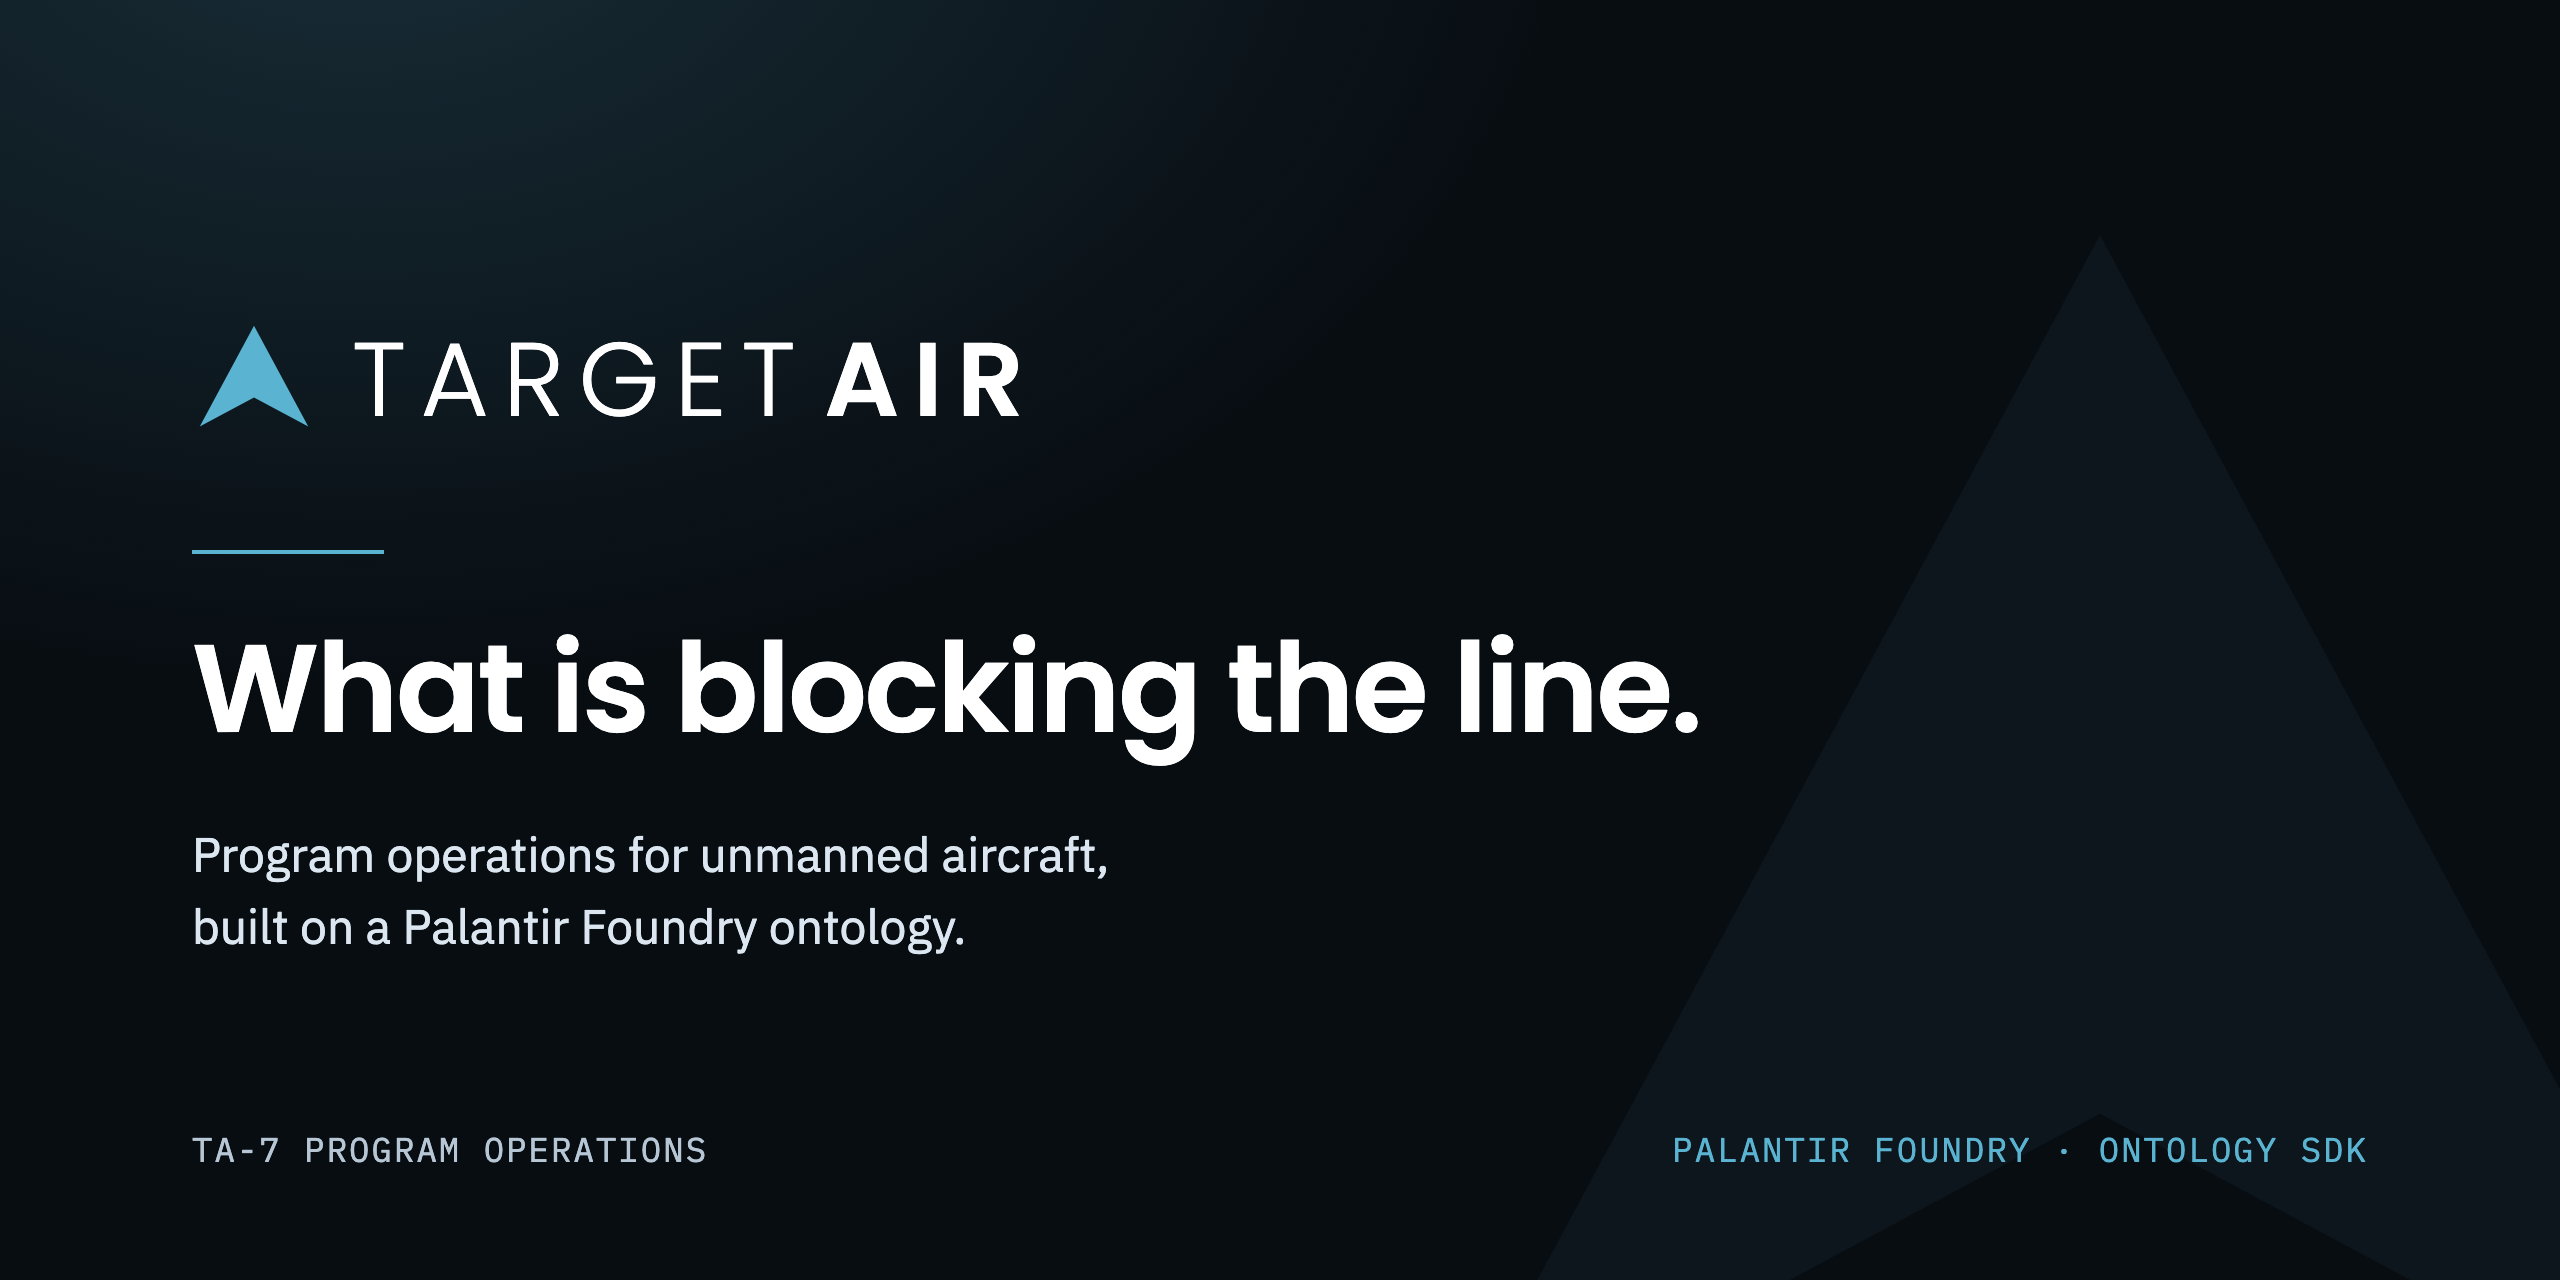
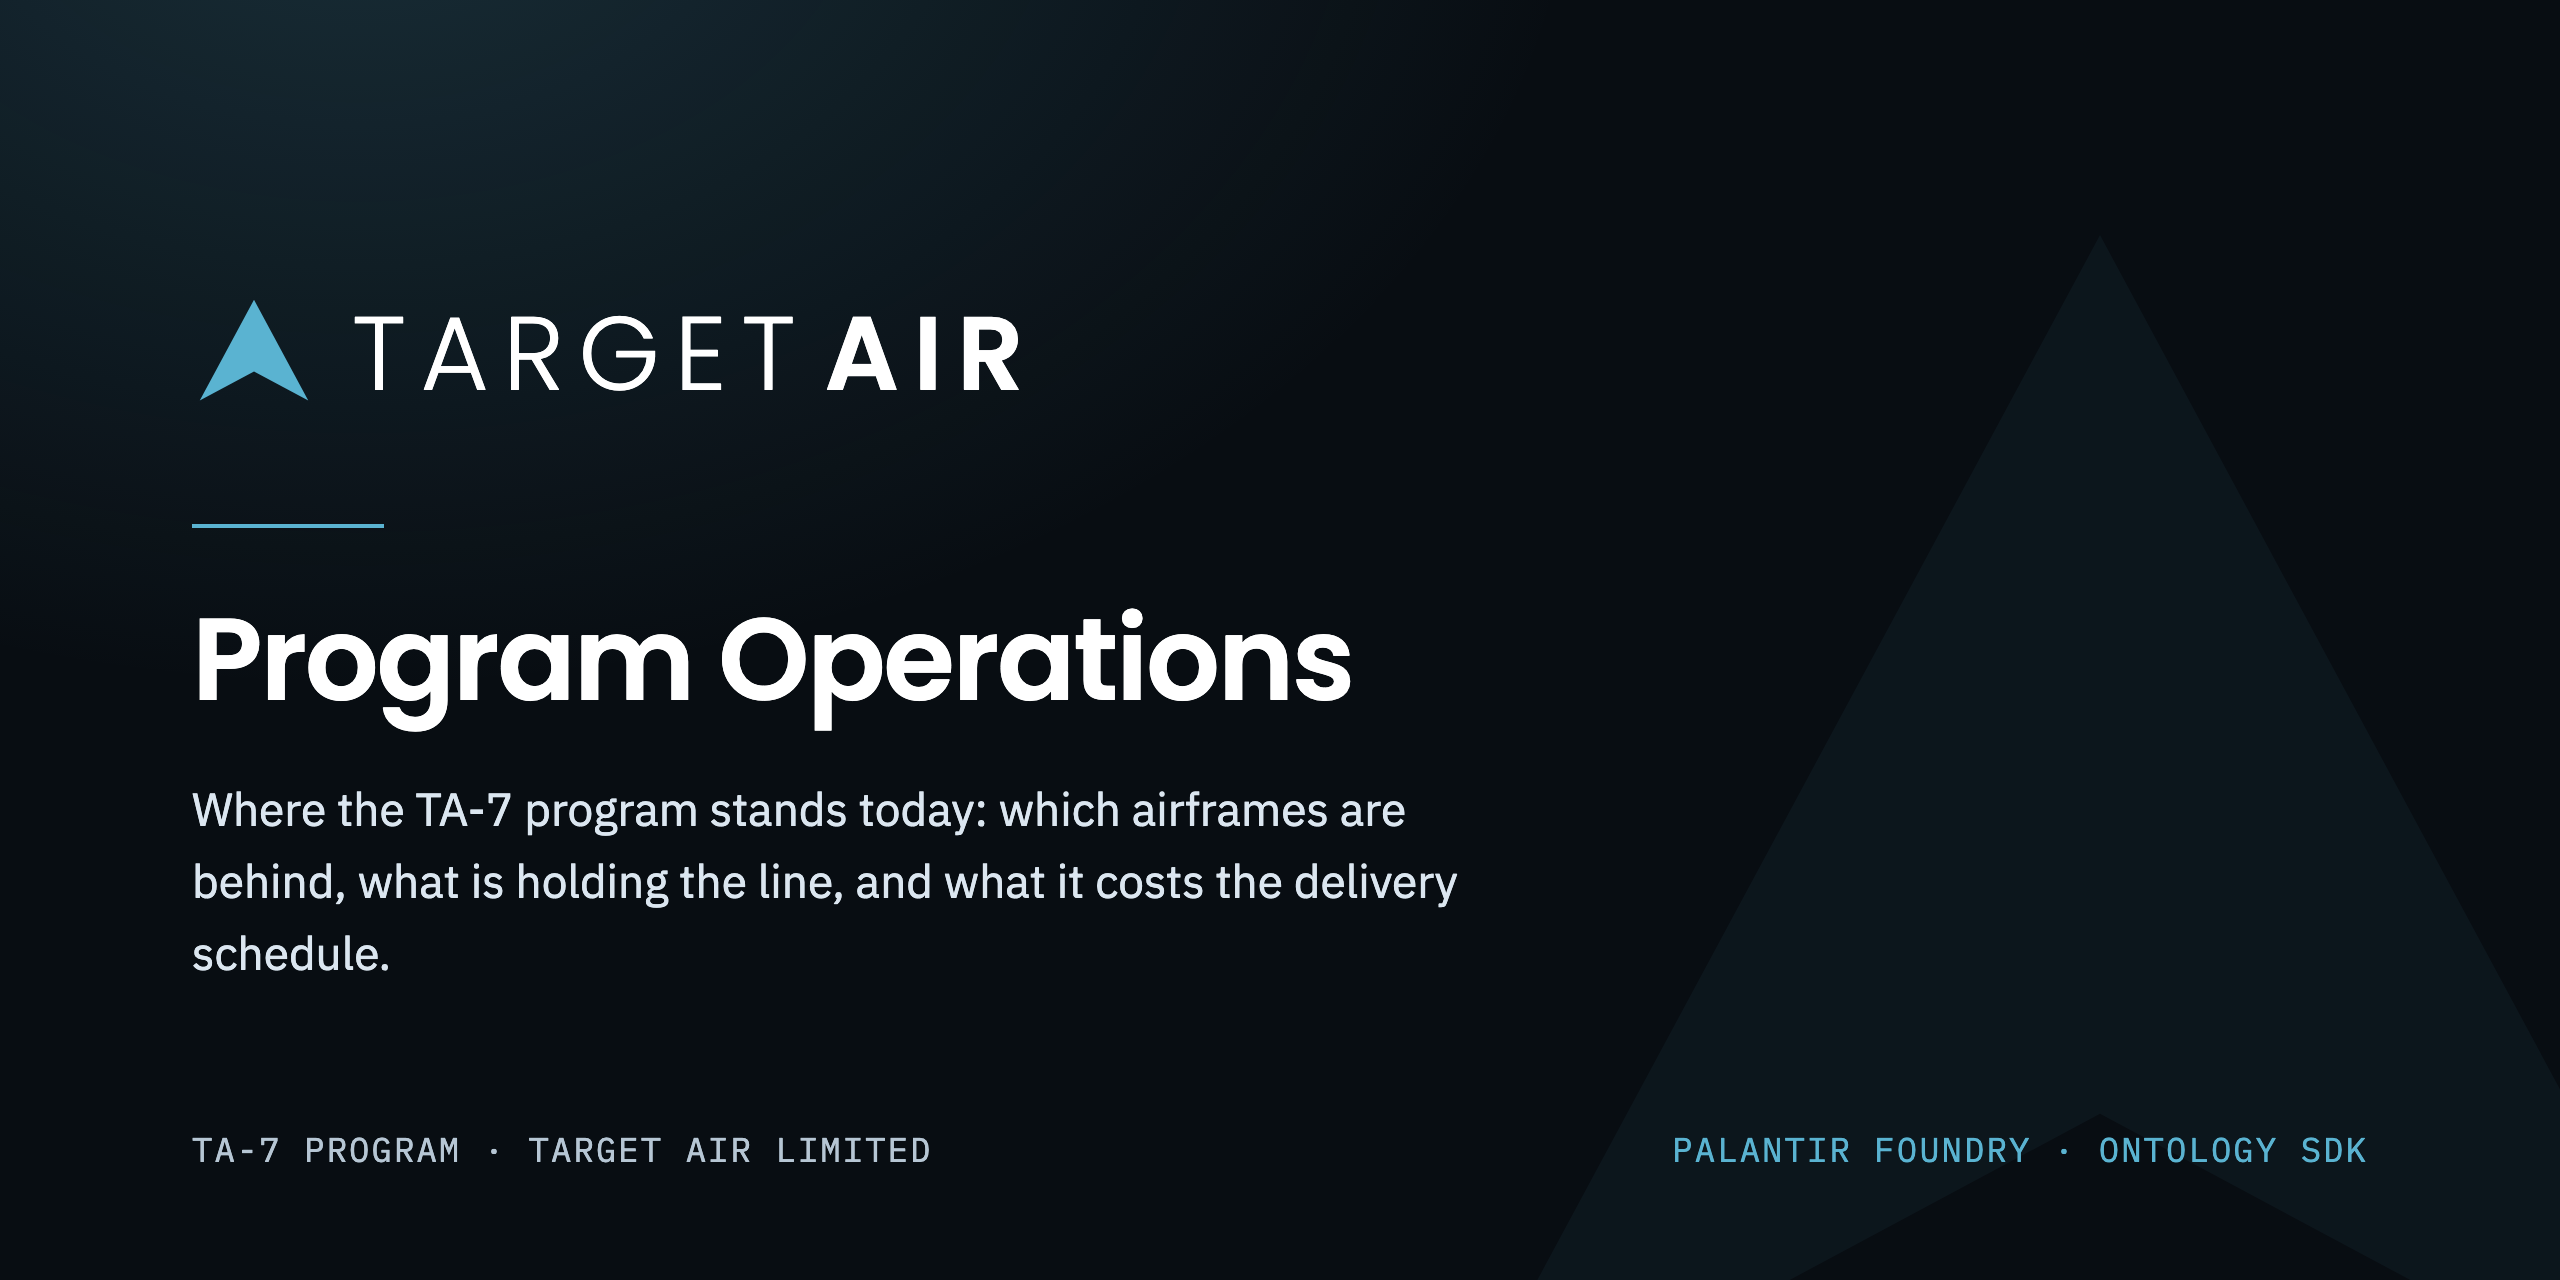
Share card: say what the system is, not sell it
The first version had a slogan, which was the wrong register. This is the
card for an internal system, so it says whose system it is and what it
covers — the same words the sign-in screen uses. A hook would read as a
product being marketed rather than a tool being used.

Footer now matches the app's own rather than repeating the headline.

diff --git a/brand/og-card.html b/brand/og-card.html
@@ -111,18 +111,18 @@
       .slogan {
         font-family: "Poppins", sans-serif;
         font-weight: 600;
-        font-size: 62px;
+        font-size: 58px;
         line-height: 1.1;
         letter-spacing: -0.02em;
         max-width: 20ch;
-        margin-bottom: 30px;
+        margin-bottom: 26px;
       }
 
       .sub {
-        font-size: 24px;
-        line-height: 1.5;
+        font-size: 23px;
+        line-height: 1.55;
         color: #dbe6f0;
-        max-width: 34ch;
+        max-width: 46ch;
       }
 
       .rule {
@@ -165,13 +165,18 @@
 
     <div class="rule"></div>
 
-    <h1 class="slogan">What is blocking the line.</h1>
+    <!-- No slogan. This is the card for an internal system, so it says whose
+         system it is and what it covers — the same thing the sign-in screen
+         says. A hook would read as a product being sold rather than a tool
+         being used. -->
+    <h1 class="slogan">Program Operations</h1>
     <p class="sub">
-      Program operations for unmanned aircraft, built on a Palantir Foundry ontology.
+      Where the TA-7 program stands today: which airframes are behind, what is holding the line,
+      and what it costs the delivery schedule.
     </p>
 
     <div class="foot">
-      <span>TA-7 PROGRAM OPERATIONS</span>
+      <span>TA-7 PROGRAM · TARGET AIR LIMITED</span>
       <span class="dim">PALANTIR FOUNDRY · ONTOLOGY SDK</span>
     </div>
   </body>
